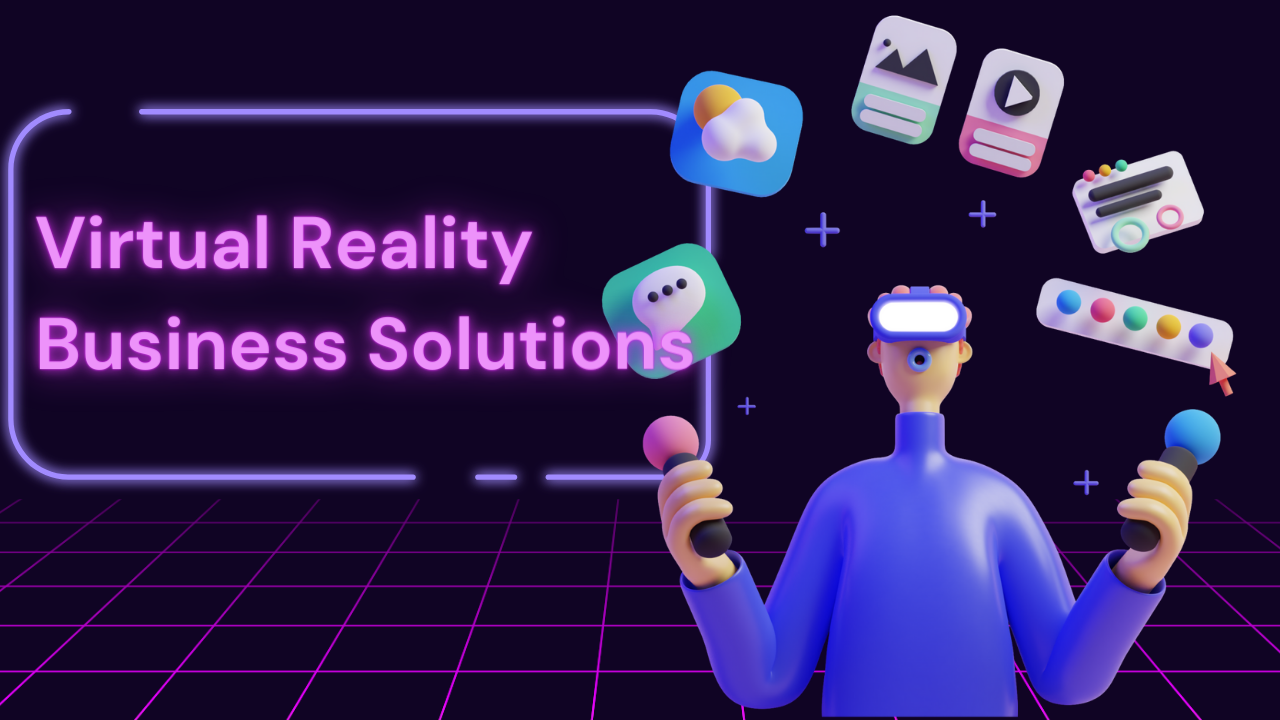
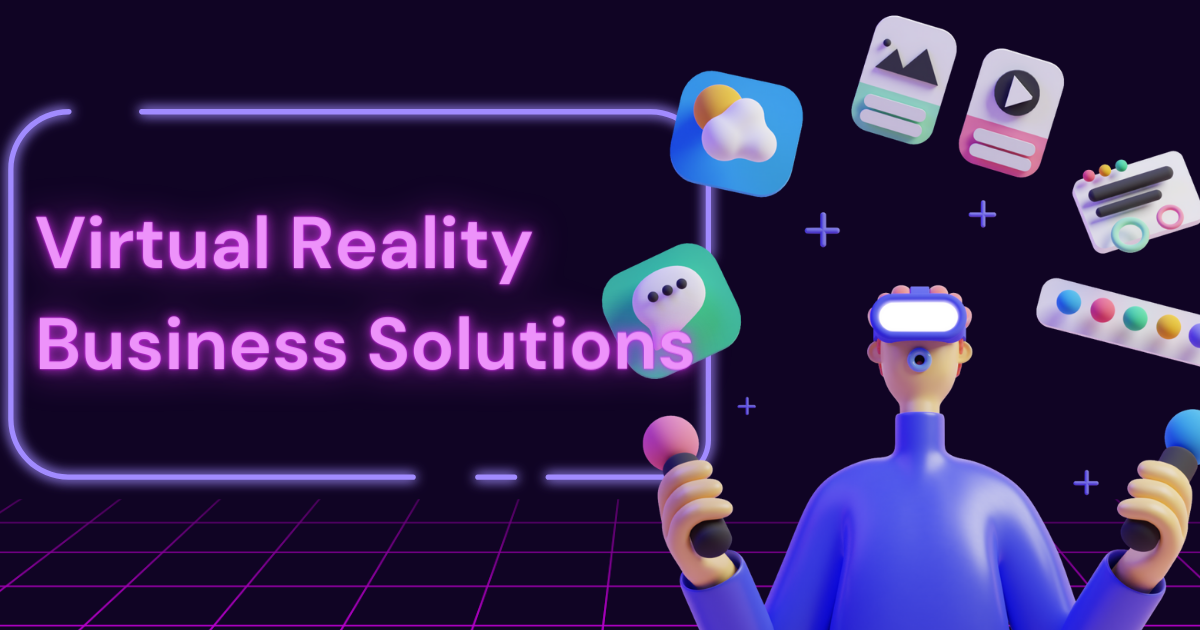
fix preview

diff --git a/public/index.html b/public/index.html
@@ -15,8 +15,8 @@
     <meta property="og:type" content="website" />
     <meta property="og:image" content="/preview.png" />
     <meta property="og:image:type" content="image/png" />
-    <meta property="og:image:width" content="1280" />
-    <meta property="og:image:height" content="720" />
+    <meta property="og:image:width" content="1200" />
+    <meta property="og:image:height" content="630" />
     <meta
       property="og:url"
       content="https://viktoriiamurzhak.github.io/vr-zone/"
